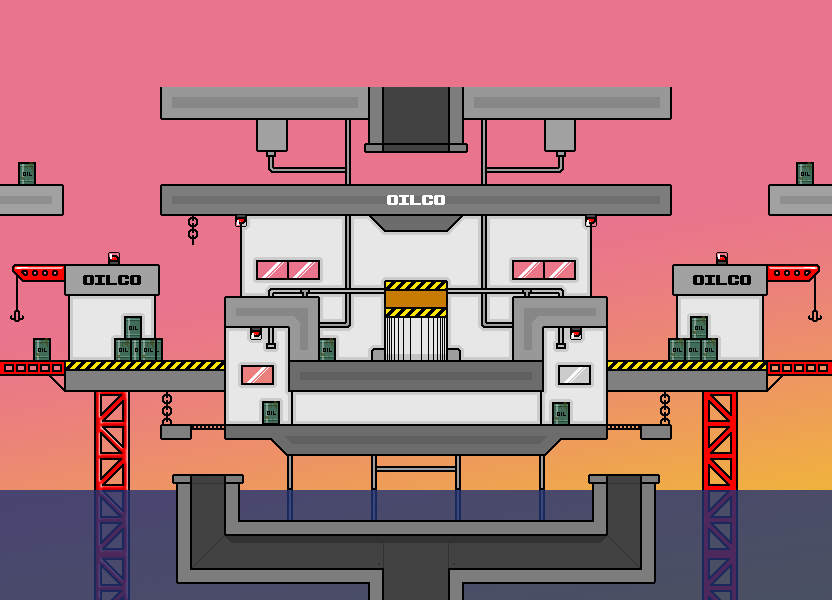
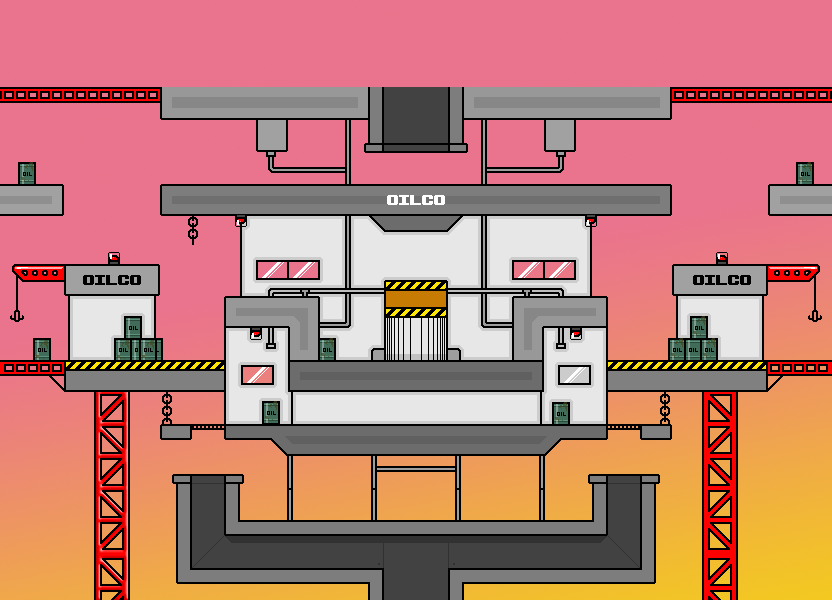
updated Offshore level

diff --git a/level_state.cpp b/level_state.cpp
@@ -65,6 +65,8 @@ void Level_State::start()
 	spawn(new Block(*this, 448, 568, 16, 32));
 	spawn(new Block(*this, 448, 568, 192, 16));
 	spawn(new Block(*this, 640,474, 16, 94));
+	spawn(new Block(*this, -4, 87, 164, 16));
+	spawn(new Block(*this, 673, 87, 164, 16));
 
 }
 

diff --git a/player.cpp b/player.cpp
@@ -40,6 +40,7 @@ Player::Player(Room &room, double x, double y)
 	moveSpeed(0.17), jumpSpeed(0.51)
 {
 	spr.setTexture(room.textureManager.getRef("player"));
+	spr.setColor(sf::Color(255, 0, 0));
 	origin = sf::Vector2f(13, 29);
 }
 
